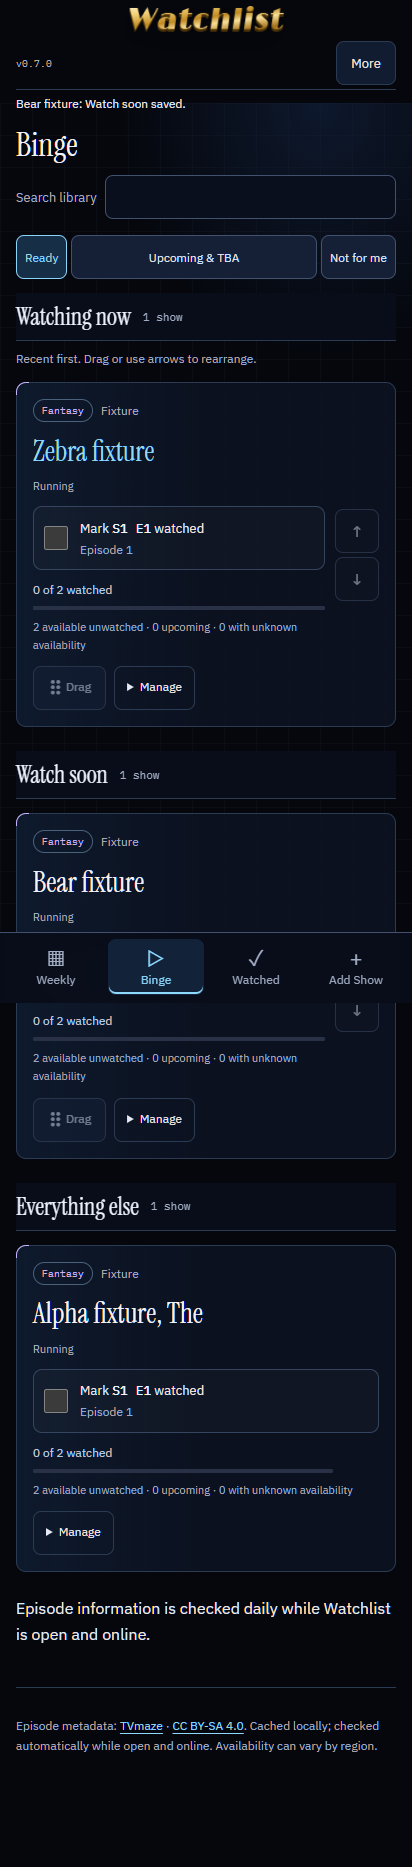
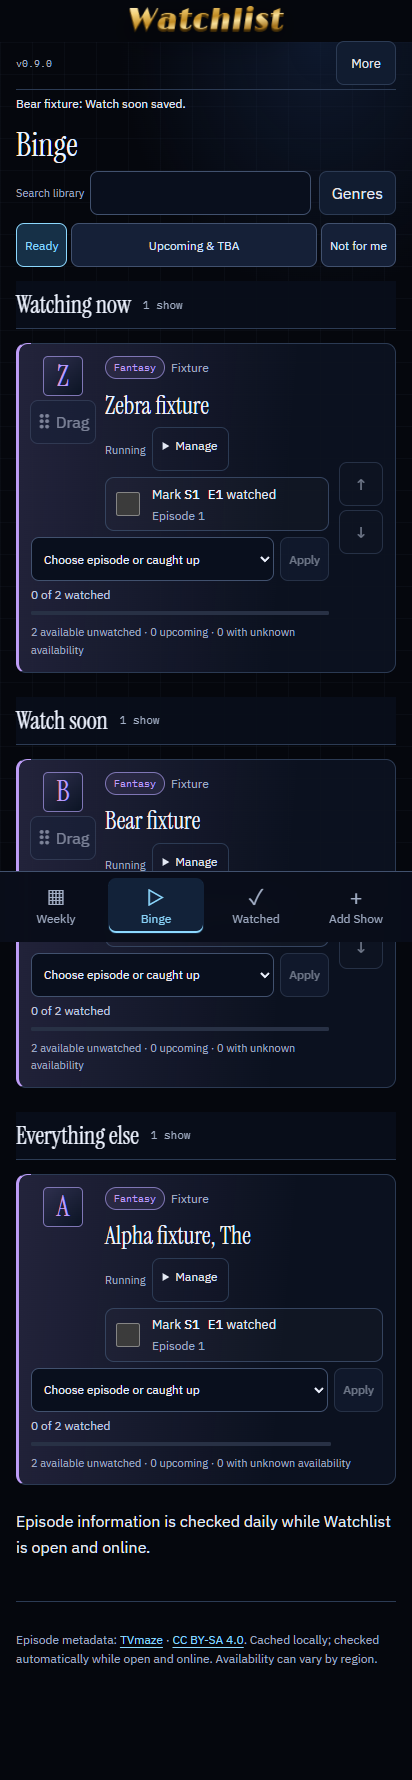
Preserve reviewed primary genres across cards backups and sync

diff --git a/src/App.tsx b/src/App.tsx
@@ -1,6 +1,6 @@
 import {GenreFilter} from './GenreFilter';
 import {CardEpisodePicker} from './CardEpisodePicker';
-import {genresOf,genreClass,primaryGenre,matchesGenres} from './genres';
+import {genresOf,genreClass,primaryGenre,displayGenres,matchesGenres} from './genres';
 import {DragHandle} from './DragHandle';
 import {moveInOrder,saveBingeOrder,type OrderSnapshot,type OrderedSection} from './binge-order';
 import {weeklyDays} from './weekly-days';
@@ -136,7 +136,8 @@ export function App({metadataPaused=false}:{metadataPaused?:boolean}={}) {
     const episodes = data.episodes.filter(e => e.showId === show.id);
     const q = queue(episodes, data.progress, now);
     const completed = data.seasons.filter(s => s.showId === show.id && confirmedComplete(s, episodes, data.progress, now));
-    const genre = primaryGenre(show.genres), tags=genresOf(show.genres);
+    const preferred=data.preferences.find(p=>p.showId===show.id)?.primaryGenre;
+    const genre = primaryGenre(show.genres,preferred), tags=displayGenres(show.genres,preferred);
     const cardSnapshot:SetupSnapshot={showId:show.id,name:show.name,notes:data.preferences.find(p=>p.showId===show.id)?.notes??'',revision:data.revision,life:String(data.lifecycles.find(row=>row.key==='syncLife:'+show.id)?.value??'')};
     const total = episodes.filter(regular).length;
     const watched = episodes.filter(e=>regular(e)&&data.progress.some(p=>p.episodeId===e.id)).length;
@@ -159,7 +160,7 @@ export function App({metadataPaused=false}:{metadataPaused?:boolean}={}) {
   else {
     const showBucket=(s:Show)=>bucket(data.episodes.filter(e=>e.showId===s.id),data.seasons.filter(x=>x.showId===s.id),data.progress,now);
     const preference=(s:Show)=>readySection(data.episodes.filter(e=>e.showId===s.id),data.progress,data.preferences.find(p=>p.showId===s.id));
-    const searched=data.shows.filter(s=>matchesTitle(s.name,filter)&&(view!=='Binge'||matchesGenres(s.genres,selectedGenres)));
+    const searched=data.shows.filter(s=>matchesTitle(s.name,filter)&&(view!=='Binge'||matchesGenres(displayGenres(s.genres,data.preferences.find(p=>p.showId===s.id)?.primaryGenre),selectedGenres)));
     const visible=searched.filter(s=>(view!=='Weekly'||preference(s)!=='not-for-me')&&(showBucket(s)===view||(view==='Watched'&&data.progress.some(p=>data.episodes.some(e=>e.id===p.episodeId&&e.showId===s.id))))).sort(view==='Watched'?(a,b)=>compareTitles(a.name,b.name):byOrder);
     if(view==='Weekly'){
       const days=weeklyDays(now);
@@ -185,7 +186,7 @@ export function App({metadataPaused=false}:{metadataPaused?:boolean}={}) {
     <PwaStatus mode={phone?'alerts':'all'}/>{error && <p role="alert">{error}</p>}{notice && <p role="status">{notice}</p>}
     {busy && <p role="status">Saving or fetching…</p>}
     {undo && !completion && <button disabled={busy} onClick={() => run(undoLast)}>Undo last episode change</button>}
-    {detail !== null && data ? <Detail section={readySection(data.episodes.filter(e=>e.showId===detail),data.progress,data.preferences.find(p=>p.showId===detail))} onSection={section=>moveSection(data.shows.find(s=>s.id===detail)!,section)} show={data.shows.find(s => s.id === detail)!} episodes={data.episodes.filter(e => e.showId === detail)} watched={new Set(data.progress.map(p => p.episodeId))} notes={data.preferences.find(p => p.showId === detail)?.notes ?? ''} now={now} busy={busy} run={run} toggle={toggle} onDelete={async () => { const show=data.shows.find(s=>s.id===detail); if (!show || !window.confirm(`Delete ${show.name}? This permanently removes its seasons, episodes, watched history, personal notes, order, and matching import entries from this library. Original files and existing backup files stay unchanged.`)) return; await run(async()=>{await deleteShow(show.id,db,fetchEpisodeOwner);setDetail(null);setImportTarget(null);setUndo(null);setCompletion('');setView('Binge');setNotice(`${show.name} was deleted from your library.`);}); }} onBack={() => setDetail(null)}/> : <><h2 ref={listHeading} tabIndex={-1}>{view}</h2>{['Weekly','Binge','Watched'].includes(view) && <div className="library-search-row"><label>Search library <input value={filter} onChange={e => setFilter(e.target.value)}/></label>{view==='Binge'&&data&&<GenreFilter choices={[...new Set(data.shows.flatMap(show=>{const tags=genresOf(show.genres);return tags.length?tags:['Unclassified'];}))].sort()} selected={selectedGenres} onChange={setSelectedGenres}/>}</div>}{content}</>}
+    {detail !== null && data ? <Detail section={readySection(data.episodes.filter(e=>e.showId===detail),data.progress,data.preferences.find(p=>p.showId===detail))} onSection={section=>moveSection(data.shows.find(s=>s.id===detail)!,section)} show={data.shows.find(s => s.id === detail)!} episodes={data.episodes.filter(e => e.showId === detail)} watched={new Set(data.progress.map(p => p.episodeId))} notes={data.preferences.find(p => p.showId === detail)?.notes ?? ''} now={now} busy={busy} run={run} toggle={toggle} onDelete={async () => { const show=data.shows.find(s=>s.id===detail); if (!show || !window.confirm(`Delete ${show.name}? This permanently removes its seasons, episodes, watched history, personal notes, order, and matching import entries from this library. Original files and existing backup files stay unchanged.`)) return; await run(async()=>{await deleteShow(show.id,db,fetchEpisodeOwner);setDetail(null);setImportTarget(null);setUndo(null);setCompletion('');setView('Binge');setNotice(`${show.name} was deleted from your library.`);}); }} onBack={() => setDetail(null)}/> : <><h2 ref={listHeading} tabIndex={-1}>{view}</h2>{['Weekly','Binge','Watched'].includes(view) && <div className="library-search-row"><label>Search library <input value={filter} onChange={e => setFilter(e.target.value)}/></label>{view==='Binge'&&data&&<GenreFilter choices={[...new Set(data.shows.flatMap(show=>{const tags=displayGenres(show.genres,data.preferences.find(p=>p.showId===show.id)?.primaryGenre);return tags.length?tags:['Unclassified'];}))].sort()} selected={selectedGenres} onChange={setSelectedGenres}/>}</div>}{content}</>}
     {completion && <div role="dialog" aria-modal="true" aria-label="Season complete"><p>{completion}</p><p>Your progress is saved. More metadata may be announced later.</p><button className="circle" aria-label="Dismiss completion" onClick={() => setCompletion('')}>×</button>{undo && <button disabled={busy} onClick={() => run(undoLast)}>Undo last episode change</button>}</div>}
     {setup&&<ShowSetup snapshot={setup.snapshot} returnTo={setup.returnTo} busy={busy||restoring} onDone={finishSetup}/>}
     <MetadataRefresh paused={metadataPaused||busy||restoring||!!setup}/><footer><p>Episode metadata: <a href="https://www.tvmaze.com/" target="_blank" rel="noreferrer">TVmaze</a> · <a href="https://creativecommons.org/licenses/by-sa/4.0/">CC BY-SA 4.0</a>. Cached locally; checked automatically while open and online. Availability can vary by region.</p></footer>

diff --git a/tests/primary-genre.test.ts b/tests/primary-genre.test.ts
@@ -1,0 +1,12 @@
+import {afterEach,expect,it} from 'vitest';
+import {createRequire} from 'node:module';
+import {WatchlistDB,saveBundle} from '../src/db';import {createBackup,restoreBackup} from '../src/backup';import {validateBackup} from '../src/backup-validation';import {mergeLibraries} from '../src/sync-merge';import {displayGenres,genresOf,primaryGenre,matchesGenres} from '../src/genres';
+const {applyGenreChoices}=createRequire(import.meta.url)('../scripts/primary-genre-data.cjs');
+const stamp='2026-11-08T12:00:00Z',show={id:1,name:'Fixture',summary:null as string|null,status:'Running',genres:['Fantasy','Action'],service:null,url:'https://www.tvmaze.com/shows/1',syncedAt:stamp};
+const fixture=()=>({version:4 as const,exportedAt:stamp,shows:[show],seasons:[],episodes:[],progress:[],preferences:[{showId:1,order:7,notes:'Keep notes',bingeManualOrder:true,primaryGenre:'Action'}],sources:[]});
+const databases:WatchlistDB[]=[];afterEach(async()=>{for(const db of databases)await db.delete();databases.length=0;});
+it('keeps a chosen genre first and filterable without changing provider genres, including after provider removal',()=>{expect(primaryGenre(show.genres,'Action')).toBe('Action');expect(displayGenres(show.genres,'Action')).toEqual(['Action','Fantasy']);expect(displayGenres(['Comedy'],'Action')).toEqual(['Action','Comedy']);expect(matchesGenres(displayGenres(show.genres,'Action'),['Fantasy'])).toBe(true);expect(show.genres).toEqual(['Fantasy','Action']);});
+it('roundtrips primary genres in format 4, reads legacy formats and rejects unsupported preference fields',()=>{expect(validateBackup(fixture())).toEqual(fixture());for(const version of [1,2,3]){expect(()=>validateBackup({...fixture(),version,preferences:[{showId:1,order:7,notes:'Keep notes',primaryGenre:'Action'}]})).toThrow('primary genre');expect(validateBackup({...fixture(),version,preferences:[]}).version).toBe(version);}for(const value of ['',7,' '.repeat(3),'x'.repeat(81)])expect(()=>validateBackup({...fixture(),preferences:[{...fixture().preferences[0],primaryGenre:value}]})).toThrow('primary genre');});
+it('preserves the preference, notes and ordering through refresh and backup restore',async()=>{const db=new WatchlistDB('primary-'+crypto.randomUUID()),other=new WatchlistDB('primary-restore-'+crypto.randomUUID());databases.push(db,other);await restoreBackup(fixture(),db);await saveBundle({show:{...show,genres:['Comedy']},episodes:[],seasons:[]},db,true);expect(await db.preferences.get(1)).toEqual(fixture().preferences[0]);const backup=await createBackup(db);expect(backup.version).toBe(4);await restoreBackup(backup,other);expect(await other.preferences.get(1)).toEqual(fixture().preferences[0]);});
+it('merges independent remote changes while preserving genre preferences and refuses conflicting choices',()=>{const base={epoch:'epoch',lifecycles:{1:'life'},backup:fixture()},local=structuredClone(base),remote=structuredClone(base);local.backup.preferences[0].primaryGenre='Fantasy';remote.backup.shows[0].summary='Updated';const result=mergeLibraries(base,local,remote);expect(result.backup.preferences[0].primaryGenre).toBe('Fantasy');expect(result.backup.shows[0].summary).toBe('Updated');remote.backup.preferences[0].primaryGenre='Comedy';expect(()=>mergeLibraries(base,local,remote)).toThrow();});
+it('applies only reviewed preference fields and aborts duplicate, missing or changed identities without mutating the input',()=>{const before={epoch:'epoch',lifecycles:{1:'life'},backup:fixture()},copy=structuredClone(before),choice={showId:1,name:'Fixture',genres:['Action','Fantasy'],primaryGenre:'Fantasy'},review={version:1,choices:[choice]};const result=applyGenreChoices(before,review,genresOf);expect(before).toEqual(copy);expect(result.library.backup.preferences[0]).toEqual({...before.backup.preferences[0],primaryGenre:'Fantasy'});const stripped=structuredClone(result.library);stripped.backup.preferences[0].primaryGenre='Action';expect(stripped).toEqual(before);for(const choices of [[choice,choice],[{...choice,name:'Other'}],[{...choice,primaryGenre:'Horror'}],[{...choice,showId:2}]])expect(()=>applyGenreChoices(before,{version:1,choices},genresOf)).toThrow();});

diff --git a/src/backup-validation.ts b/src/backup-validation.ts
@@ -90,7 +90,7 @@ export function parseBackup(raw: string): Backup {
 
 export function validateBackup(value: unknown): Backup {
   const b = object(value, 'file');
-  if (b.version !== 1 && b.version !== 2 && b.version !== 3) fail('version', 'is missing or unsupported; this app accepts versions 1, 2 and 3');
+  if (b.version !== 1 && b.version !== 2 && b.version !== 3 && b.version !== 4) fail('version', 'is missing or unsupported; this app accepts versions 1, 2, 3 and 4');
   const exportedAt = timestamp(b.exportedAt, 'export date');
   const shows = array(b.shows, 'shows').map((value, index) => {
     const loc = `show ${index + 1}`, s = object(value, loc);
@@ -124,8 +124,9 @@ export function validateBackup(value: unknown): Backup {
   const preferences = array(b.preferences, 'preferences').map((value, index) => {
     const loc = `preference ${index + 1}`, p = object(value, loc);
     if(p.bingeSection!==undefined&&(b.version===1||!['watching-now','watch-soon','everything-else','not-for-me'].includes(String(p.bingeSection))))fail(loc,'has an unsupported Binge section');
-    if(p.bingeManualOrder!==undefined&&(b.version!==3||typeof p.bingeManualOrder!=='boolean'))fail(loc,'has an unsupported Binge manual-order mode');
-    return { ...(p.bingeManualOrder===undefined?{}:{bingeManualOrder:p.bingeManualOrder as boolean}),showId: id(p.showId, `${loc} show identifier`), order: number(p.order, `${loc} order`), notes: text(p.notes, `${loc} notes`),...(p.bingeSection===undefined?{}:{bingeSection:p.bingeSection as 'watching-now'|'watch-soon'|'everything-else'|'not-for-me'}) };
+    if(p.bingeManualOrder!==undefined&&((b.version!==3&&b.version!==4)||typeof p.bingeManualOrder!=='boolean'))fail(loc,'has an unsupported Binge manual-order mode');
+    if(p.primaryGenre!==undefined&&(b.version!==4||typeof p.primaryGenre!=='string'||!p.primaryGenre.trim()||p.primaryGenre.length>80))fail(loc,'has an unsupported primary genre');
+    return { ...(p.primaryGenre===undefined?{}:{primaryGenre:p.primaryGenre as string}),...(p.bingeManualOrder===undefined?{}:{bingeManualOrder:p.bingeManualOrder as boolean}),showId: id(p.showId, `${loc} show identifier`), order: number(p.order, `${loc} order`), notes: text(p.notes, `${loc} notes`),...(p.bingeSection===undefined?{}:{bingeSection:p.bingeSection as 'watching-now'|'watch-soon'|'everything-else'|'not-for-me'}) };
   });
   const sources = array(b.sources, 'import sources').map((value, index) => {
     const loc = `import source ${index + 1}`, s = object(value, loc);

diff --git a/src/model.ts b/src/model.ts
@@ -3,11 +3,11 @@ export interface Season { id: number; showId: number; number: number; episodeOrd
 export interface Episode { id: number; showId: number; season: number; number: number | null; name: string; summary: string | null; airstamp: string | null; airdate: string | null; type: string }
 export interface Progress { episodeId: number; watchedAt: string; showId?: number }
 export type BingeSection='watching-now'|'watch-soon'|'everything-else'|'not-for-me';
-export interface Preference { showId: number; order: number; notes: string; bingeSection?:BingeSection; bingeManualOrder?:boolean }
+export interface Preference { showId: number; order: number; notes: string; bingeSection?:BingeSection; bingeManualOrder?:boolean; primaryGenre?:string }
 export interface ImportRow { id: string; title: string; notes: string; state: 'pending' | 'excluded' | 'review' | 'imported'; showId?: number; sourceCategory?: 'Weekly' | 'Binge' | 'Watched'; sourceWeekday?: string; sourceStatus?: string; season?: number; rawTitle?: string }
 export interface Source { id: string; name: string; raw: string; importedAt: string; rows: ImportRow[] }
 export interface Bundle { show: Show; seasons: Season[]; episodes: Episode[] }
-export interface Backup { version: 1|2|3; exportedAt: string; shows: Show[]; seasons: Season[]; episodes: Episode[]; progress: Progress[]; preferences: Preference[]; sources: Source[] }
+export interface Backup { version: 1|2|3|4; exportedAt: string; shows: Show[]; seasons: Season[]; episodes: Episode[]; progress: Progress[]; preferences: Preference[]; sources: Source[] }
 export const chicagoDate = (now: Date) => new Intl.DateTimeFormat('en-CA', { timeZone: 'America/Chicago', year: 'numeric', month: '2-digit', day: '2-digit' }).format(now);
 export const airTime = (stamp: string) => new Intl.DateTimeFormat('en-US', { timeZone: 'America/Chicago', weekday: 'long', month: 'short', day: 'numeric', hour: 'numeric', minute: '2-digit', timeZoneName: 'short' }).format(new Date(stamp));
 export const episodeLabel = (e: Episode) => `S${e.season} E${e.number ?? '?'} · ${e.name}`;

diff --git a/src/sync-merge.ts b/src/sync-merge.ts
@@ -23,7 +23,7 @@ function normalized(library: SharedLibrary): SharedLibrary {
   try {
     if (!library || typeof library.epoch !== 'string' || !library.epoch.trim()) throw new Error('A library epoch is required.');
     if (!library.lifecycles || typeof library.lifecycles !== 'object' || Array.isArray(library.lifecycles)) throw new Error('Show lifecycle identifiers are required.');
-    const backup = {...validateBackup(library.backup),version:3 as const}, lifecycles: Record<string, string> = {};
+    const backup = {...validateBackup(library.backup),version:4 as const}, lifecycles: Record<string, string> = {};
     for (const [key, token] of Object.entries(library.lifecycles)) {
       if (!/^[1-9]\d*$/.test(key) || !Number.isSafeInteger(Number(key)) || typeof token !== 'string' || !token.trim()) throw new Error('A show lifecycle identifier is invalid.');
       lifecycles[key] = token;
@@ -156,7 +156,7 @@ export function mergeLibraries(baseValue: SharedLibrary, localValue: SharedLibra
   const progress = table(b.progress, l.progress, r.progress, p => p.episodeId, 'Watched episode', progressOwner,
     (bp, lp, rp, where) => mergeRecord(bp, lp, rp, where, (key) => key === 'watchedAt' && lp && rp ? { value: [lp.watchedAt, rp.watchedAt].sort().at(-1) } : undefined));
   try {
-    const backup = validateBackup({ version: 3, exportedAt: [l.exportedAt, r.exportedAt].sort().at(-1),
+    const backup = validateBackup({ version: 4, exportedAt: [l.exportedAt, r.exportedAt].sort().at(-1),
       shows: table(b.shows, l.shows, r.shows, row => row.id, 'Show', row => row.id,
         (bs, ls, rs, where) => mergeRecord(bs, ls, rs, where, key => key === 'syncedAt' && ls && rs ? { value: [ls.syncedAt, rs.syncedAt].sort().at(-1) } : undefined)),
       seasons: table(b.seasons, l.seasons, r.seasons, row => row.id, 'Season', row => row.showId),

diff --git a/tests/browser/genre-cards.spec.ts b/tests/browser/genre-cards.spec.ts
@@ -41,3 +41,11 @@ test('compact cards keep tap targets clear and grow for long text and expanded M
  await page.setViewportSize({width:320,height:1000});await page.addStyleTag({content:'.show-card .show-title{font-size:48px}.show-card .show-meta{font-size:24px}.show-card .genre-tag{font-size:20px}'});
  await expect(page.locator('.show-title').first()).toBeVisible();expect(await page.evaluate(()=>document.documentElement.scrollWidth<=innerWidth)).toBe(true);
 });
+
+test('saved primary genre controls the first badge and accent while all genres stay filterable',async({page})=>{
+ await seed(page);await page.evaluate(async()=>{const path='/src/db.ts';const {db}=await import(path);await db.shows.update(1,{genres:['Fantasy','Action']});await db.preferences.update(1,{primaryGenre:'Action'});});
+ const card=page.getByRole('article',{name:'Funny fantasy',exact:true});await expect(card.locator('.genre-tag').first()).toHaveText('Action');await expect(card).toHaveClass(/genre-action/);
+ await page.locator('.genre-filter summary').click();await page.getByRole('checkbox',{name:'Fantasy',exact:true}).check();await page.getByRole('checkbox',{name:'Fantasy',exact:true}).press('Escape');await expect(card).toBeVisible();
+ const download=page.waitForEvent('download');await page.getByRole('button',{name:'Export backup',exact:true}).click();const exported=await download;const fs=await import('node:fs/promises');const backup=JSON.parse(await fs.readFile((await exported.path())!,'utf8'));expect(backup.version).toBe(4);expect(backup.preferences.find((p:{showId:number})=>p.showId===1)).toMatchObject({primaryGenre:'Action',notes:'Keep notes 1'});
+ await page.reload();await page.getByRole('button',{name:'Binge',exact:true}).click();await expect(card.locator('.genre-tag').first()).toHaveText('Action');await expect(card).toHaveClass(/genre-action/);
+});

diff --git a/tests/pwa/offline.spec.ts b/tests/pwa/offline.spec.ts
@@ -111,7 +111,7 @@ test('original splash, gold font and brick scene reopen offline',async({page,con
  }finally{await server.stop();}
 });
 
-test('offline keyboard dragging preserves order, notes and format-3 export after reopening',async({page,context})=>{
+test('offline keyboard dragging preserves order, notes and format-4 export after reopening',async({page,context})=>{
  const server=await productionServer();try{
   await page.goto(server.url);await ready(page);
   const shows=[1,2].map(id=>({id:985000+id,name:'Offline order '+id,summary:null,status:'Running',genres:[],service:null,url:'https://www.tvmaze.com/shows/'+id,syncedAt:new Date().toISOString()}));
@@ -122,6 +122,6 @@ test('offline keyboard dragging preserves order, notes and format-3 export after
   await expect(page.locator('.show-title')).toHaveText(['Offline order 2','Offline order 1']);
   await page.reload();await page.getByRole('button',{name:'Binge',exact:true}).click();await expect(page.locator('.show-title')).toHaveText(['Offline order 2','Offline order 1']);
   await page.getByLabel('More Watchlist actions',{exact:true}).click();const downloading=page.waitForEvent('download');await page.getByRole('button',{name:'Export backup',exact:true}).click();const exported=JSON.parse(readFileSync((await(await downloading).path())!,'utf8'));
-  expect(exported.version).toBe(3);expect(exported.preferences.map((p:{notes:string})=>p.notes)).toEqual(['Keep offline 0','Keep offline 1']);expect(exported.preferences.find((p:{showId:number})=>p.showId===985002).order).toBe(0);
+  expect(exported.version).toBe(4);expect(exported.preferences.map((p:{notes:string})=>p.notes)).toEqual(['Keep offline 0','Keep offline 1']);expect(exported.preferences.find((p:{showId:number})=>p.showId===985002).order).toBe(0);
  }finally{await server.stop();}
 });

diff --git a/tests/browser/binge-sections.spec.ts b/tests/browser/binge-sections.spec.ts
@@ -23,7 +23,7 @@ test('Binge sections preserve legacy order, move/reorder/hide reversibly, and se
   await page.getByRole('button',{name:'Upcoming & TBA',exact:true}).click();await expect(page.getByRole('region',{name:'Upcoming',exact:true}).locator('.show-title')).toHaveText(['Dated fixture']);await expect(page.getByRole('region',{name:'TBA',exact:true}).locator('.show-title')).toHaveText(['Unknown fixture']);
   await page.getByRole('button',{name:'Ready',exact:true}).click();await page.setViewportSize({width:412,height:900});await page.screenshot({path:'artifacts/binge-sections-phone.png',fullPage:true});await page.setViewportSize({width:320,height:900});expect(await page.evaluate(()=>document.documentElement.scrollWidth<=innerWidth)).toBe(true);
   await page.getByLabel('More Watchlist actions',{exact:true}).click();const pending=page.waitForEvent('download');await page.getByRole('button',{name:'Export backup',exact:true}).click();const exported=JSON.parse(readFileSync((await (await pending).path())!,'utf8'));
-  expect(exported.version).toBe(3);expect(exported.progress).toEqual(backup.progress);expect(exported.preferences.map((p:{notes:string})=>p.notes)).toEqual(backup.preferences.map(p=>p.notes));expect(exported.sources).toEqual([]);
+  expect(exported.version).toBe(4);expect(exported.progress).toEqual(backup.progress);expect(exported.preferences.map((p:{notes:string})=>p.notes)).toEqual(backup.preferences.map(p=>p.notes));expect(exported.sources).toEqual([]);
   await page.clock.setFixedTime(new Date('2026-11-10T18:00:00Z'));await page.reload();await page.getByRole('button',{name:'Binge',exact:true}).click();await expect(page.getByRole('button',{name:'Dated fixture',exact:true})).toBeVisible();
 });
 

diff --git a/src/genres.ts b/src/genres.ts
@@ -4,5 +4,6 @@ export function genresOf(values:string[]):string[]{
  return [...new Set(names)].sort((a,b)=>a.localeCompare(b));
 }
 export const genreClass=(name:string)=>'genre-'+name.toLowerCase().replace(/[^a-z]/g,'');
-export function primaryGenre(values:string[]):string{const genres=genresOf(values);return ['Science-Fiction','Superhero','Fantasy','Horror','Comedy','Drama'].find(name=>genres.includes(name))??genres[0]??'Unclassified';}
+export function primaryGenre(values:string[],preferred?:string):string{const genres=genresOf(values);return preferred?.trim()?genresOf([preferred])[0]: ['Science-Fiction','Superhero','Fantasy','Horror','Comedy','Drama'].find(name=>genres.includes(name))??genres[0]??'Unclassified';}
+export function displayGenres(values:string[],preferred?:string):string[]{const genres=genresOf(preferred?[...values,preferred]:values),primary=primaryGenre(genres,preferred);return genres.length?[primary,...genres.filter(name=>name!==primary)]:[];}
 export function matchesGenres(values:string[],selected:string[]):boolean{const genres=genresOf(values);return !selected.length||selected.some(name=>(genres.length?genres:['Unclassified']).includes(name));}

diff --git a/tests/backup-restore.test.ts b/tests/backup-restore.test.ts
@@ -32,7 +32,7 @@ it('rolls back all replacement writes if any table fails',async()=>{
 });
 it('keeps an intentionally empty restore empty after reopening and startup initialization',async()=>{
   const db=create();await fill(db);await restoreBackup(empty,db);const name=db.name;db.close();const reopened=new WatchlistDB(name);databases.push(reopened);
-  await initializeCatalog(source,reopened);expect(contents(await createBackup(reopened))).toEqual(contents({...empty,version:3}));expect((await reopened.settings.get('catalogInitialized'))?.value).toBe(true);
+  await initializeCatalog(source,reopened);expect(contents(await createBackup(reopened))).toEqual(contents({...empty,version:4}));expect((await reopened.settings.get('catalogInitialized'))?.value).toBe(true);
 });
 it('rejects stale metadata requests after restore but permits an explicit new import',async()=>{
   const db=create();await fill(db);const revision=await libraryRevision(db);await restoreBackup(empty,db);

diff --git a/tests/backup-validation.test.ts b/tests/backup-validation.test.ts
@@ -45,8 +45,8 @@ describe('backup validation', () => {
     expect(restored).not.toHaveProperty('extra'); expect(restored.shows[0]).not.toHaveProperty('extra'); expect(restored.sources[0].rows[0]).not.toHaveProperty('extra');
     expect(restored.shows[0]).not.toBe(b.shows[0]); expect(b.extra).toEqual({ unsafe: true });
   });
-  it.each([undefined, null, 0, 4, '1', false])('rejects missing or unknown version %s', version => {
-    expect(() => validateBackup({ ...fixture(), version })).toThrow(/version.*versions 1, 2 and 3/);
+  it.each([undefined, null, 0, 5, '1', false])('rejects missing or unknown version %s', version => {
+    expect(() => validateBackup({ ...fixture(), version })).toThrow(/version.*versions 1, 2, 3 and 4/);
   });
   it.each(['shows', 'seasons', 'episodes', 'progress', 'preferences', 'sources'])('requires the %s list', field => {
     const b = fixture() as unknown as Record<string, unknown>;

diff --git a/tests/sync-merge.test.ts b/tests/sync-merge.test.ts
@@ -148,7 +148,7 @@ describe('three-way shared library merge', () => {
   it.each(['local', 'remote'] as const)('accepts an uncontested %s restore, including an empty replacement', side => {
     const base = fixture(), replacement = empty('restored-epoch');
     const merged = side === 'local' ? mergeLibraries(base, replacement, copy(base)) : mergeLibraries(base, copy(base), replacement);
-    expect(merged).toEqual({...replacement,backup:{...replacement.backup,version:3}}); expect(merged.backup.shows).toEqual([]);
+    expect(merged).toEqual({...replacement,backup:{...replacement.backup,version:4}}); expect(merged.backup.shows).toEqual([]);
   });
   it('rejects old-epoch edits while another device restores', () => {
     const base = fixture(), local = copy(base); watched(local, 30);
